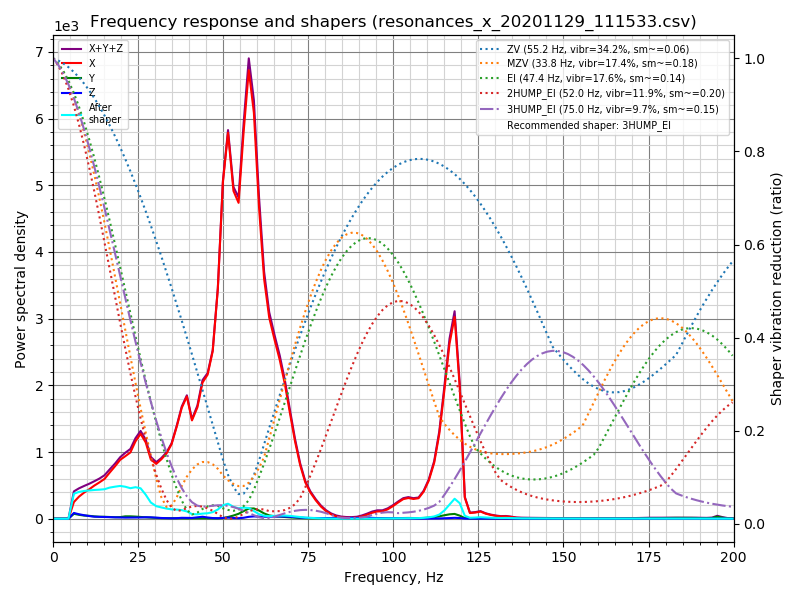
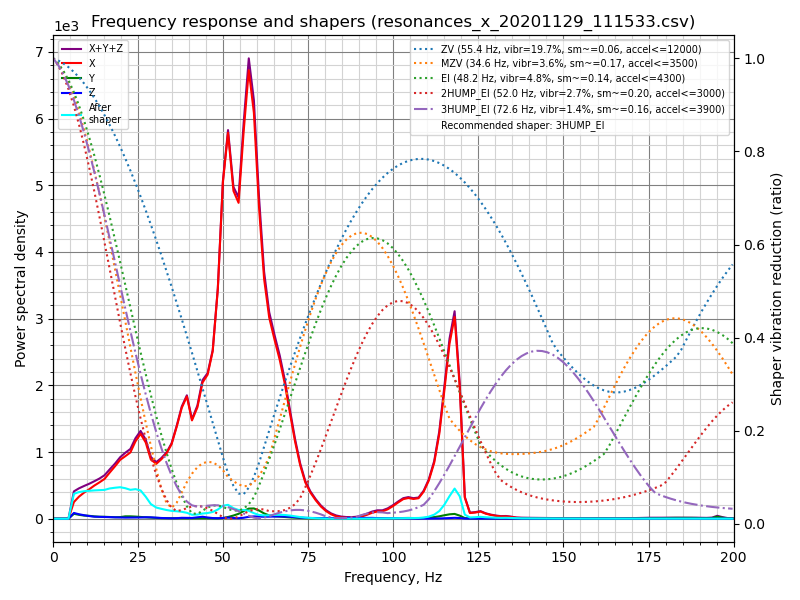
docs: Updated measuring resonances doc on max_accel suggestions

diff --git a/docs/Measuring_Resonances.md b/docs/Measuring_Resonances.md
@@ -181,12 +181,17 @@ recommended for your setup. For example:
 
 ![Resonances](img/calibrate-y.png)
 ```
-Fitted shaper 'zv' frequency = 37.0 Hz (vibrations = 29.1%, smoothing ~= 0.115)
-Fitted shaper 'mzv' frequency = 35.4 Hz (vibrations = 15.9%, smoothing ~= 0.163)
-Fitted shaper 'ei' frequency = 42.0 Hz (vibrations = 15.1%, smoothing ~= 0.183)
-Fitted shaper '2hump_ei' frequency = 45.6 Hz (vibrations = 9.7%, smoothing ~= 0.260)
-Fitted shaper '3hump_ei' frequency = 59.0 Hz (vibrations = 7.5%, smoothing ~= 0.235)
-Recommended shaper is 3hump_ei @ 59.0 Hz
+Fitted shaper 'zv' frequency = 34.4 Hz (vibrations = 4.0%, smoothing ~= 0.132)
+To avoid too much smoothing with 'zv', suggested max_accel <= 4500 mm/sec^2
+Fitted shaper 'mzv' frequency = 34.6 Hz (vibrations = 0.0%, smoothing ~= 0.170)
+To avoid too much smoothing with 'mzv', suggested max_accel <= 3500 mm/sec^2
+Fitted shaper 'ei' frequency = 41.4 Hz (vibrations = 0.0%, smoothing ~= 0.188)
+To avoid too much smoothing with 'ei', suggested max_accel <= 3200 mm/sec^2
+Fitted shaper '2hump_ei' frequency = 51.8 Hz (vibrations = 0.0%, smoothing ~= 0.201)
+To avoid too much smoothing with '2hump_ei', suggested max_accel <= 3000 mm/sec^2
+Fitted shaper '3hump_ei' frequency = 61.8 Hz (vibrations = 0.0%, smoothing ~= 0.215)
+To avoid too much smoothing with '3hump_ei', suggested max_accel <= 2800 mm/sec^2
+Recommended shaper is mzv @ 34.6 Hz
 ```
 
 The suggested configuration can be added to `[input_shaper]` section of
@@ -195,8 +200,11 @@ The suggested configuration can be added to `[input_shaper]` section of
 [input_shaper]
 shaper_freq_x: ...
 shaper_type_x: ...
-shaper_freq_y: 59.0
-shaper_type_y: 3hump_ei
+shaper_freq_y: 34.6
+shaper_type_y: mzv
+
+[printer]
+max_accel: 3000  # should not exceed the estimated max_accel for X and Y axes
 ```
 or you can choose some other configuration yourself based on the generated
 charts: peaks in the power spectral density on the charts correspond to
@@ -252,12 +260,17 @@ Let's consider the following results from the automatic tuning:
 
 ![Resonances](img/calibrate-x.png)
 ```
-Fitted shaper 'zv' frequency = 62.2 Hz (vibrations = 36.9%, smoothing ~= 0.046)
-Fitted shaper 'mzv' frequency = 35.6 Hz (vibrations = 18.1%, smoothing ~= 0.161)
-Fitted shaper 'ei' frequency = 54.6 Hz (vibrations = 19.3%, smoothing ~= 0.108)
-Fitted shaper '2hump_ei' frequency = 46.2 Hz (vibrations = 9.2%, smoothing ~= 0.253)
-Fitted shaper '3hump_ei' frequency = 50.0 Hz (vibrations = 7.2%, smoothing ~= 0.328)
-Recommended shaper is 2hump_ei @ 46.2 Hz
+Fitted shaper 'zv' frequency = 57.8 Hz (vibrations = 20.3%, smoothing ~= 0.053)
+To avoid too much smoothing with 'zv', suggested max_accel <= 13000 mm/sec^2
+Fitted shaper 'mzv' frequency = 34.8 Hz (vibrations = 3.6%, smoothing ~= 0.168)
+To avoid too much smoothing with 'mzv', suggested max_accel <= 3600 mm/sec^2
+Fitted shaper 'ei' frequency = 48.8 Hz (vibrations = 4.9%, smoothing ~= 0.135)
+To avoid too much smoothing with 'ei', suggested max_accel <= 4400 mm/sec^2
+Fitted shaper '2hump_ei' frequency = 45.2 Hz (vibrations = 0.1%, smoothing ~= 0.264)
+To avoid too much smoothing with '2hump_ei', suggested max_accel <= 2200 mm/sec^2
+Fitted shaper '3hump_ei' frequency = 48.0 Hz (vibrations = 0.0%, smoothing ~= 0.356)
+To avoid too much smoothing with '3hump_ei', suggested max_accel <= 1500 mm/sec^2
+Recommended shaper is 2hump_ei @ 45.2 Hz
 ```
 Note that the reported `smoothing` values are some abstract projected values.
 These values can be used to compare different configurations: the higher the
@@ -277,16 +290,22 @@ which limits the smoothing to 0.2 score. Now you can get the following result:
 
 ![Resonances](img/calibrate-x-max-smoothing.png)
 ```
-Fitted shaper 'zv' frequency = 55.2 Hz (vibrations = 34.2%, smoothing ~= 0.057)
-Fitted shaper 'mzv' frequency = 33.8 Hz (vibrations = 17.4%, smoothing ~= 0.178)
-Fitted shaper 'ei' frequency = 47.4 Hz (vibrations = 17.6%, smoothing ~= 0.143)
-Fitted shaper '2hump_ei' frequency = 52.0 Hz (vibrations = 11.9%, smoothing ~= 0.200)
-Fitted shaper '3hump_ei' frequency = 75.0 Hz (vibrations = 9.7%, smoothing ~= 0.146)
-Recommended shaper is 3hump_ei @ 75.0 Hz
+Fitted shaper 'zv' frequency = 55.4 Hz (vibrations = 19.7%, smoothing ~= 0.057)
+To avoid too much smoothing with 'zv', suggested max_accel <= 12000 mm/sec^2
+Fitted shaper 'mzv' frequency = 34.6 Hz (vibrations = 3.6%, smoothing ~= 0.170)
+To avoid too much smoothing with 'mzv', suggested max_accel <= 3500 mm/sec^2
+Fitted shaper 'ei' frequency = 48.2 Hz (vibrations = 4.8%, smoothing ~= 0.139)
+To avoid too much smoothing with 'ei', suggested max_accel <= 4300 mm/sec^2
+Fitted shaper '2hump_ei' frequency = 52.0 Hz (vibrations = 2.7%, smoothing ~= 0.200)
+To avoid too much smoothing with '2hump_ei', suggested max_accel <= 3000 mm/sec^2
+Fitted shaper '3hump_ei' frequency = 72.6 Hz (vibrations = 1.4%, smoothing ~= 0.155)
+To avoid too much smoothing with '3hump_ei', suggested max_accel <= 3900 mm/sec^2
+Recommended shaper is 3hump_ei @ 72.6 Hz
 ```
 
 If you compare to the previously suggested parameters, the vibrations are a bit
-larger, but the smoothing is significantly smaller than previously.
+larger, but the smoothing is significantly smaller than previously, allowing
+larger maximum acceleration.
 
 When deciding which `max_smoothing` parameter to choose, you can use a
 trial-and-error approach. Try a few different values and see which results
@@ -315,14 +334,27 @@ using `SHAPER_CALIBRATE` Klipper command in the future, it will use the stored
 
 Since the input shaper can create some smoothing in parts, especially at high
 accelerations, you will still need to choose the `max_accel` value that
-does not create too much smoothing in the printed parts. Follow
+does not create too much smoothing in the printed parts. A calibration script
+provides an estimate for `max_accel` parameter that should not create too much
+smoothing. Note that the `max_accel` as displayed by the calibration script is
+only a theoretical maximum at which the respective shaper is still able to work
+without producing too much smoothing. It is by no means a recommendation to set
+this acceleration for printing. The maximum acceleration your printer is able to
+sustain depends on its mechanical properties and the maximum torque of the used
+stepper motors. Therefore, it is suggested to set `max_accel` in `[printer]`
+section that does not exceed the estimated values for X and Y axes, likely with
+some conservative safety margin.
+
+Alternatively, follow
 [this](Resonance_Compensation.md#selecting-max_accel) part of
-the input shaper tuning guide and print the test model.
+the input shaper tuning guide and print the test model to choose `max_accel`
+parameter experimentally.
 
 The same notice applies to the input shaper
 [auto-calibration](#input-shaper-auto-calibration) with
 `SHAPER_CALIBRATE` command: it is still necessary to choose the right
-`max_accel` value after the auto-calibration.
+`max_accel` value after the auto-calibration, and the suggested acceleration
+limits will not be applied automatically.
 
 If you are doing a shaper re-calibration and the reported smoothing for the
 suggested shaper configuration is almost the same as what you got during the
@@ -345,15 +377,24 @@ frequencies for each input shaper, as well as which input shaper is
 recommended for your setup, on Octoprint console. For example:
 
 ```
-Fitted shaper 'zv' frequency = 56.7 Hz (vibrations = 23.2%)
-Fitted shaper 'mzv' frequency = 52.9 Hz (vibrations = 10.9%)
-Fitted shaper 'ei' frequency = 62.0 Hz (vibrations = 8.9%)
-Fitted shaper '2hump_ei' frequency = 59.0 Hz (vibrations = 4.9%)
-Fitted shaper '3hump_ei' frequency = 65.0 Hz (vibrations = 3.3%)
-Recommended shaper_type_y = 2hump_ei, shaper_freq_y = 59.0 Hz
+Calculating the best input shaper parameters for y axis
+Fitted shaper 'zv' frequency = 39.0 Hz (vibrations = 13.2%, smoothing ~= 0.105)
+To avoid too much smoothing with 'zv', suggested max_accel <= 5900 mm/sec^2
+Fitted shaper 'mzv' frequency = 36.8 Hz (vibrations = 1.7%, smoothing ~= 0.150)
+To avoid too much smoothing with 'mzv', suggested max_accel <= 4000 mm/sec^2
+Fitted shaper 'ei' frequency = 36.6 Hz (vibrations = 2.2%, smoothing ~= 0.240)
+To avoid too much smoothing with 'ei', suggested max_accel <= 2500 mm/sec^2
+Fitted shaper '2hump_ei' frequency = 48.0 Hz (vibrations = 0.0%, smoothing ~= 0.234)
+To avoid too much smoothing with '2hump_ei', suggested max_accel <= 2500 mm/sec^2
+Fitted shaper '3hump_ei' frequency = 59.0 Hz (vibrations = 0.0%, smoothing ~= 0.235)
+To avoid too much smoothing with '3hump_ei', suggested max_accel <= 2500 mm/sec^2
+Recommended shaper_type_y = mzv, shaper_freq_y = 36.8 Hz
 ```
 If you agree with the suggested parameters, you can execute `SAVE_CONFIG`
-now to save them and restart the Klipper.
+now to save them and restart the Klipper. Note that this will not update
+`max_accel` value in `[printer]` section. You should update it manually
+following the considerations in [Selecting max_accel](#selecting-max_accel)
+section.
 
 
 If your printer is a bed slinger printer, you can specify which axis
